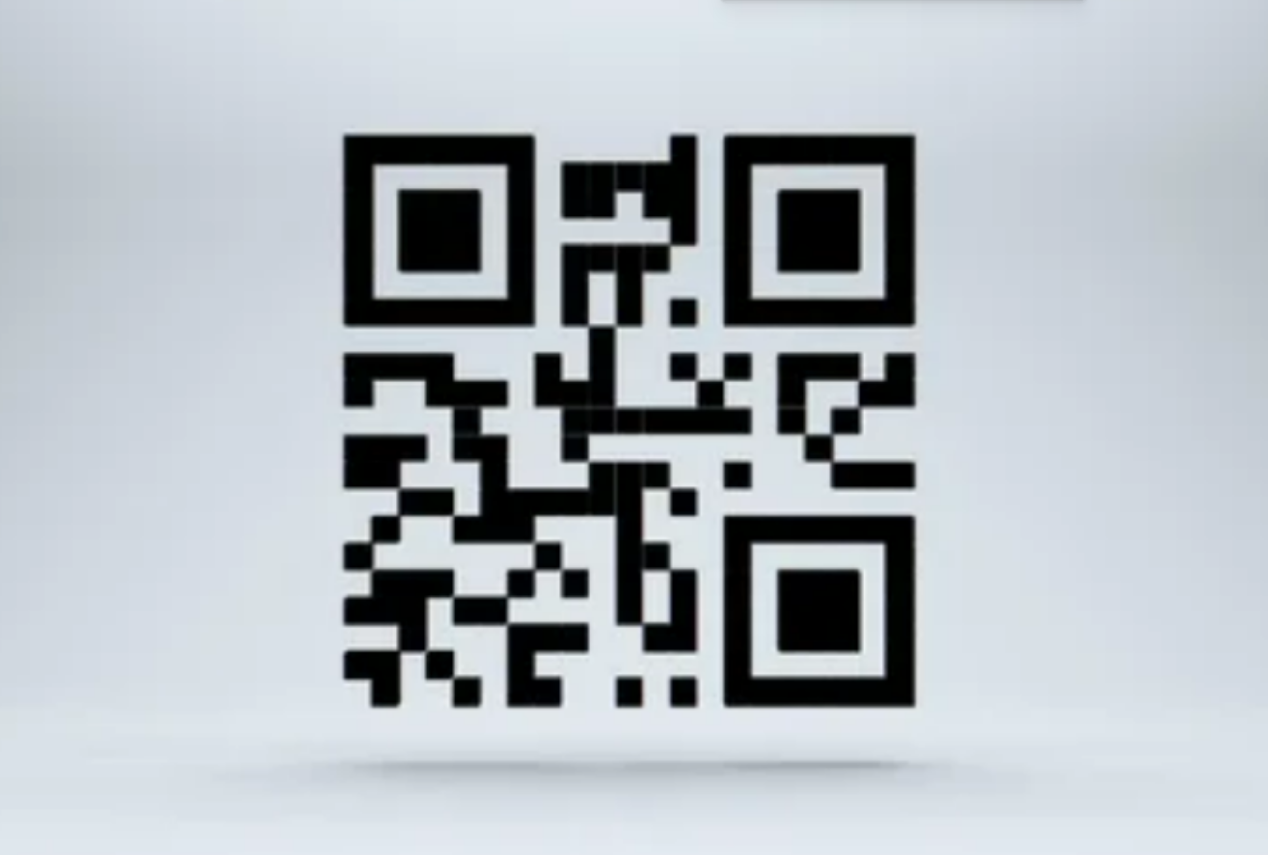
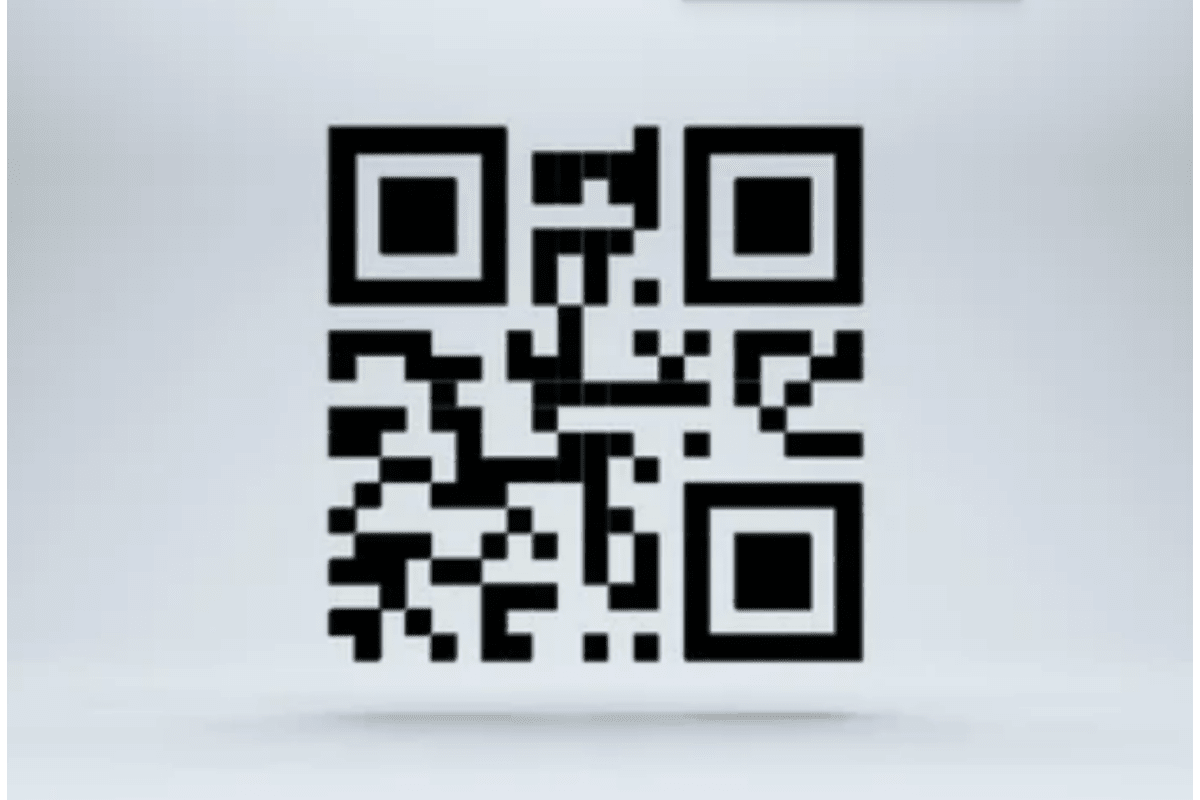
all images are localised

diff --git a/index.html b/index.html
@@ -10,7 +10,7 @@
   <!--
     - favicon
   -->
-  <link rel="shortcut icon" href="./assets/images/logo.ico" type="image/x-icon">
+  <link rel="shortcut icon" href="./assets/images/logo.png" type="image/x-icon">
 
   <!--
     - custom css link
@@ -41,7 +41,7 @@
       <div class="sidebar-info">
 
         <figure class="avatar-box">
-          <img src="./assets/images/profile-pic.png" alt="Sayan Ghosh" width="80" style="
+          <img src="./assets/images/avatar/avatar.png" alt="Sayan Ghosh" width="80" style="
     padding-bottom: 3px;
     padding-right: 13px;
     padding-left: 5px;
@@ -238,7 +238,7 @@
             <li class="service-item">
 
               <div class="service-icon-box">
-                <img src="assets\images\machine-learning-symbol-artificial-intelligence-mathematical-optimization-algorithm-automated-machine-learning-deep-learning-electric-blue-emblem-png-clipart-removebg-preview.png"
+                <img src="assets\images\about-images\ml.png"
                      alt="Machine Learning" width="80" height="80">
               </div>
             
@@ -256,7 +256,7 @@
             <li class="service-item">
 
               <div class="service-icon-box">
-                <img src="assets\images\computer-vision-1524279-1290826-removebg-preview.png" alt="Computer Vision" width="80" height="80">
+                <img src="assets\images\about-images\cv.png" alt="Computer Vision" width="80" height="80">
               </div>
 
               <div class="service-content-box">
@@ -273,7 +273,7 @@
             <li class="service-item">
 
               <div class="service-icon-box">
-                <img src="assets\images\156-1568541_natural-language-processing-and-deep-learning-powered-icon-removebg-preview.png"
+                <img src="assets\images\about-images\nlp.png"
                 alt="Machine Learning" width="100" height="80">  
               </div>
 
@@ -291,7 +291,7 @@
             <li class="service-item">
 
               <div class="service-icon-box">
-                <img src="./assets/images/2471868-removebg-preview.png" alt="Data Analysis and Visualization" width="80" height="80">
+                <img src="assets\images\about-images\da.png" alt="Data Analysis and Visualization" width="80" height="80">
               </div>
 
               <div class="service-content-box">
@@ -445,7 +445,7 @@
 
             <!-- Scikit-learn -->
             <li class="service-item" style="display: flex;align-items: center;padding-top: 0px;padding-bottom: 0px;padding-left: 30px;">
-              <img src="https://seeklogo.com/images/S/scikit-learn-logo-8766D07E2E-seeklogo.com.png" alt="" width="80">
+              <img src="assets\images\resume-images\Frameworks\scikit.png" alt="" width="80">
               <div class="service-content-box" style="
     padding-top: 7px;
 ">
@@ -456,7 +456,7 @@
 
             <!-- Numpy -->
             <li class="service-item" style="display: flex;align-items: center;padding-top: 0px;padding-bottom: 0px;padding-left: 30px;">
-              <img src="https://seeklogo.com/images/N/numpy-logo-479C24EC79-seeklogo.com.png" alt="" width="80">
+              <img src="assets\images\resume-images\Frameworks\numpy.png" alt="" width="80">
               <div class="service-content-box" style="
     padding-top: 7px;
 ">
@@ -467,7 +467,7 @@
 
             <!-- Pandas -->
             <li class="service-item" style="display: flex;align-items: center;padding-top: 0px;padding-bottom: 0px;padding-left: 30px;">
-              <img src="https://seeklogo.com/images/P/pandas-icon-logo-BE10401BF1-seeklogo.com.png" alt="" width="80">
+              <img src="assets\images\resume-images\Frameworks\pandas.png" alt="" width="60">
               <div class="service-content-box" style="
     padding-top: 7px;
 ">
@@ -478,7 +478,7 @@
 
             <!-- Matplotlib -->
             <li class="service-item" style="display: flex;align-items: center;padding-top: 0px;padding-bottom: 0px;padding-left: 30px;">
-              <img src="https://seeklogo.com/images/M/matplotlib-logo-7676870AC0-seeklogo.com.png" alt="" width="80">
+              <img src="assets\images\resume-images\Frameworks\mpl.png" alt="" width="80">
               <div class="service-content-box" style="
     padding-top: 7px;
 ">
@@ -489,7 +489,7 @@
 
             <!-- Pytorch -->
             <li class="service-item" style="display: flex;align-items: center;padding-top: 0px;padding-bottom: 0px;padding-left: 30px;">
-              <img src="https://seeklogo.com/images/P/pytorch-logo-84F95D0AF5-seeklogo.com.png" alt="" width="80">
+              <img src="assets\images\resume-images\Frameworks\pytorch.png" alt="" width="80">
               <div class="service-content-box" style="
     padding-top: 7px;
 ">
@@ -500,7 +500,7 @@
 
             <!-- YOLO -->
             <li class="service-item" style="display: flex;align-items: center;padding-top: 0px;padding-bottom: 0px;padding-left: 30px;">
-              <img src="assets\images\256x256bb-removebg-preview.png" alt="" width="80">
+              <img src="assets\images\resume-images\Frameworks\yolo.png" alt="" width="80">
               <div class="service-content-box" style="
     padding-top: 7px;
 ">
@@ -511,7 +511,7 @@
 
             <!-- Tensorflow -->
             <li class="service-item" style="display: flex;align-items: center;padding-top: 0px;padding-bottom: 0px;padding-left: 30px;">
-              <img src="https://seeklogo.com/images/T/tensorflow-logo-C69AEAC9D0-seeklogo.com.png" alt="" width="80">
+              <img src="assets\images\resume-images\Frameworks\tf.png" alt="" width="80">
               <div class="service-content-box" style="
     padding-top: 7px;
 ">
@@ -522,7 +522,7 @@
 
             <!-- Keras -->
             <li class="service-item" style="display: flex;align-items: center;padding-top: 0px;padding-bottom: 0px;padding-left: 30px;">
-              <img src="https://seeklogo.com/images/K/keras-logo-6B06C2FC2D-seeklogo.com.png" alt="" width="80">
+              <img src="assets\images\resume-images\Frameworks\keras.png" alt="" width="80">
               <div class="service-content-box" style="
     padding-top: 7px;
 ">
@@ -533,7 +533,7 @@
 
             <!-- Streamlit -->
             <li class="service-item" style="display: flex;align-items: center;padding-top: 0px;padding-bottom: 0px;padding-left: 30px;">
-              <img src="https://seeklogo.com/images/S/streamlit-logo-1A3B208AE4-seeklogo.com.png" alt="" width="80">
+              <img src="assets\images\resume-images\Frameworks\streamlit.png" alt="" width="80">
               <div class="service-content-box" style="
     padding-top: 7px;
 ">
@@ -544,7 +544,7 @@
 
             <!-- Flask -->
             <li class="service-item" style="display: flex;align-items: center;padding-top: 0px;padding-bottom: 0px;padding-left: 30px;">
-              <img src="assets\images\flask-by-example-python-web-framework-bottle-bottle-removebg-preview.png" alt="" width="80">
+              <img src="assets\images\resume-images\Frameworks\flask.png" alt="" width="80">
               <div class="service-content-box" style="
     padding-top: 7px;
 ">
@@ -555,7 +555,7 @@
 
             <!-- EasyOCR -->
             <li class="service-item" style="display: flex;align-items: center;padding-top: 0px;padding-bottom: 0px;padding-left: 30px;">
-              <img src="assets\images\images-removebg-preview.png" alt="" width="80">
+              <img src="assets\images\resume-images\Frameworks\ocr.png" alt="" width="80">
               <div class="service-content-box" style="
     padding-top: 7px;
 ">
@@ -566,7 +566,7 @@
 
             <!-- OpenCV -->
             <li class="service-item" style="display: flex;align-items: center;padding-top: 0px;padding-bottom: 0px;padding-left: 30px;">
-              <img src="assets\images\OpenCV_logo-removebg-preview.png" alt="" width="80">
+              <img src="assets\images\resume-images\Frameworks\ocv.png" alt="" width="80">
               <div class="service-content-box" style="
     padding-top: 7px;
 ">
@@ -577,7 +577,7 @@
 
             <!-- FastAPI -->
             <li class="service-item" style="display: flex;align-items: center;padding-top: 0px;padding-bottom: 0px;padding-left: 30px;">
-              <img src="https://seeklogo.com/images/F/fastapi-logo-541BAA112F-seeklogo.com.png" alt="" width="80">
+              <img src="assets\images\resume-images\Frameworks\fastapi.png" alt="" width="80">
               <div class="service-content-box" style="
     padding-top: 7px;
 ">
@@ -599,7 +599,7 @@
             
             <!-- PyCharm -->
             <li class="service-item" style="display: flex;align-items: center;padding-top: 0px;padding-bottom: 0px;padding-left: 30px;">
-              <img src="https://img.icons8.com/?size=100&id=vinpBD5oA3b4&format=png&color=000000" alt="" width="80">
+              <img src="assets\images\resume-images\Developer-tools\py.png" alt="" width="80">
               <div class="service-content-box" style="padding-top: 7px;">
                 <h4 class="h4 service-item-title" style="font-size: 18px;">PyCharm</h4>
               </div>
@@ -608,7 +608,7 @@
 
             <!-- Intellij IDEA -->
             <li class="service-item" style="display: flex;align-items: center;padding-top: 0px;padding-bottom: 0px;padding-left: 30px;">
-              <img src="https://img.icons8.com/?size=100&id=w1Gq29w4RQWL&format=png&color=000000" alt="" width="80">
+              <img src="assets\images\resume-images\Developer-tools\ii.png" alt="" width="80">
               <div class="service-content-box" style="padding-top: 7px;">
                 <h4 class="h4 service-item-title" style="font-size: 18px;">Intellij IDEA</h4>
               </div>
@@ -617,7 +617,7 @@
 
             <!-- VS Code -->
             <li class="service-item" style="display: flex;align-items: center;padding-top: 0px;padding-bottom: 0px;padding-left: 30px;">
-              <img src="https://img.icons8.com/?size=100&id=9OGIyU8hrxW5&format=png&color=000000" alt="" width="80">
+              <img src="assets\images\resume-images\Developer-tools\vs.png" alt="" width="80">
               <div class="service-content-box" style="
     padding-top: 7px;
 ">
@@ -628,7 +628,7 @@
 
             <!-- Git -->
             <li class="service-item" style="display: flex;align-items: center;padding-top: 0px;padding-bottom: 0px;padding-left: 30px;">
-              <img src="https://img.icons8.com/?size=100&id=20906&format=png&color=000000" alt="" width="80">
+              <img src="assets\images\resume-images\Developer-tools\g.png" alt="" width="80">
               <div class="service-content-box" style="
     padding-top: 7px;
 ">
@@ -641,7 +641,7 @@
             <li class="service-item" style="display: flex;align-items: center;padding-top: 0px;padding-bottom: 0px;padding-left: 30px;">
         
               <div class="service-icon-box">
-                <img src="https://seeklogo.com/images/D/dataspell-logo-06435B9CF3-seeklogo.com.png" alt="" width="80">
+                <img src="assets\images\resume-images\Developer-tools\ds.png" alt="" width="80">
               </div>
         
               <div class="service-content-box" style="
@@ -654,7 +654,7 @@
 
             <!-- Code::Blocks -->
             <li class="service-item" style="display: flex;align-items: center;padding-top: 0px;padding-bottom: 0px;padding-left: 30px;">
-              <img src="https://img.icons8.com/?size=100&id=8BWvlqRi2nsz&format=png&color=000000" alt="" width="80">
+              <img src="assets\images\resume-images\Developer-tools\cb.png" alt="" width="80">
               
               <div class="service-content-box" style="
     padding-top: 7px;
@@ -666,7 +666,7 @@
 
             <!-- Jupyter Notebook -->
             <li class="service-item" style="display: flex;align-items: center;padding-top: 0px;padding-bottom: 0px;padding-left: 30px;">
-              <img src="https://img.icons8.com/?size=100&id=J0SgMWzAxqFj&format=png&color=000000" alt="" width="80">
+              <img src="assets\images\resume-images\Developer-tools\jn.png" alt="" width="80">
               <div class="service-content-box" style="
     padding-top: 7px;
 ">
@@ -679,7 +679,7 @@
             <li class="service-item" style="display: flex;align-items: center;padding-top: 0px;padding-bottom: 0px;padding-left: 30px;">
         
               <div class="service-icon-box">
-                <img src="https://img.icons8.com/?size=100&id=EPbEfEa7o8CB&format=png&color=000000" alt="" width="80">
+                <img src="assets\images\resume-images\Developer-tools\p.png" alt="" width="80">
               </div>
         
               <div class="service-content-box" style="
@@ -694,7 +694,7 @@
             <li class="service-item" style="display: flex;align-items: center;padding-top: 0px;padding-bottom: 0px;padding-left: 30px;">
         
               <div class="service-icon-box">
-                <img src="https://img.icons8.com/?size=100&id=HF4xGsjDERHf&format=png&color=000000" alt="" width="80">
+                <img src="assets\images\resume-images\Developer-tools\linux.png" alt="" width="80">
               </div>
         
               <div class="service-content-box" style="
@@ -718,10 +718,6 @@
         </a>
 
       </article>
-
-
-
-
 
       <!--
         - #PORTFOLIO
@@ -757,7 +753,7 @@
                     <ion-icon name="eye-outline"></ion-icon>
                   </div>
 
-                  <img src="https://f5b623aa.rocketcdn.me/wp-content/uploads/2022/08/Blog_Automatic-Number-Plate-Recognition-ANPR.jpg.webp" alt="CarTagDetect" loading="lazy">
+                  <img src="assets\images\portfolio\CTD.png" alt="CarTagDetect" loading="lazy">
                 </figure>
 
                 <h3 class="project-title">CarTagDetect</h3>
@@ -771,7 +767,7 @@
                     <ion-icon name="eye-outline"></ion-icon>
                   </div>
 
-                  <img src="https://blog.finbrain.tech/wp-content/uploads/2023/05/AMZN-stock-forecast-accuracy-banner-with-logo.jpg" alt="StockSeer" loading="lazy">
+                  <img src="assets\images\portfolio\SS.png" alt="StockSeer" loading="lazy">
                 </figure>
 
                 <h3 class="project-title">StockSeer</h3>
@@ -785,7 +781,7 @@
                     <ion-icon name="eye-outline"></ion-icon>
                   </div>
 
-                  <img src="https://www.inventiva.co.in/wp-content/uploads/2023/03/tumblr_nsgqgiSSXw1t7cmmpo1_1280-780x470.png" alt="FilmFinder" loading="lazy">
+                  <img src="assets\images\portfolio\FF.png" alt="FilmFinder" loading="lazy">
                 </figure>
 
                 <h3 class="project-title">FilmFinder</h3>
@@ -799,7 +795,7 @@
                     <ion-icon name="eye-outline"></ion-icon>
                   </div>
 
-                  <img src="assets\images\image.png" alt="QR Code Generator Browser Extension" loading="lazy">
+                  <img src="assets\images\portfolio\QRG.png" alt="QR Code Generator Browser Extension" loading="lazy">
                 </figure>
 
                 <h3 class="project-title">QR Code Generator Browser Extension</h3>
@@ -813,10 +809,10 @@
                     <ion-icon name="eye-outline"></ion-icon>
                   </div>
 
-                  <img src="https://miro.medium.com/v2/resize:fit:1100/format:webp/0*whWZiPnG0rXxels-.jpg" alt="Creating a Neural Network from scratch" loading="lazy">
+                  <img src="assets\images\portfolio\NNS.png" alt="Creating a Neural Network from scratch" loading="lazy">
                 </figure>
 
-                <h3 class="project-title">Creating a Neural Network from scratch</h3>
+                <h3 class="project-title">Neural Network from scratch</h3>
               </a>
             </li>
           </ul>
@@ -847,7 +843,7 @@
               <a href="https://www.coursera.org/account/accomplishments/specialization/44F6XBALN95N?utm_campaign=sharing_cta&utm_content=cert_image&utm_medium=certificate&utm_product=s12n&utm_source=link" target="_blank">
 
                 <figure class="certification-banner-box">
-                  <img src="https://s3.amazonaws.com/coursera_assets/meta_images/generated/CERTIFICATE_LANDING_PAGE/CERTIFICATE_LANDING_PAGE~44F6XBALN95N/CERTIFICATE_LANDING_PAGE~44F6XBALN95N.jpeg" alt="Advanced Data Science with IBM" loading="lazy">
+                  <img src="assets\images\certificate\c1.jpeg" alt="Advanced Data Science with IBM" loading="lazy">
                 </figure>
 
                 <div class="certification-content">
@@ -871,7 +867,7 @@
               <a href ="https://www.coursera.org/account/accomplishments/professional-cert/42GM2BBDPA9Q?utm_campaign=sharing_cta&utm_content=cert_image&utm_medium=certificate&utm_product=prof&utm_source=link" target="_blank">
 
                 <figure class="certification-banner-box">
-                  <img src="https://s3.amazonaws.com/coursera_assets/meta_images/generated/CERTIFICATE_LANDING_PAGE/CERTIFICATE_LANDING_PAGE~42GM2BBDPA9Q/CERTIFICATE_LANDING_PAGE~42GM2BBDPA9Q.jpeg" alt="Meta Data Analyst" loading="lazy">
+                  <img src="assets\images\certificate\c2.jpeg" alt="Meta Data Analyst" loading="lazy">
                 </figure>
 
                 <div class="certification-content">
@@ -895,7 +891,7 @@
               <a href="https://www.coursera.org/account/accomplishments/verify/STRBLBLL8RP4?utm_campaign=sharing_cta&utm_content=cert_image&utm_medium=certificate&utm_product=course&utm_source=link" target="_blank">
 
                 <figure class="certification-banner-box">
-                  <img src="https://s3.amazonaws.com/coursera_assets/meta_images/generated/CERTIFICATE_LANDING_PAGE/CERTIFICATE_LANDING_PAGE~STRBLBLL8RP4/CERTIFICATE_LANDING_PAGE~STRBLBLL8RP4.jpeg" alt="Applied AI with DeepLearning" loading="lazy">
+                  <img src="assets\images\certificate\c3.jpeg" alt="Applied AI with DeepLearning" loading="lazy">
                 </figure>
 
                 <div class="certification-content">
@@ -918,7 +914,7 @@
               <a href="https://www.coursera.org/account/accomplishments/professional-cert/ZK5G36S3VA25" target="_blank">
 
                 <figure class="certification-banner-box">
-                  <img src="https://s3.amazonaws.com/coursera_assets/meta_images/generated/CERTIFICATE_LANDING_PAGE/CERTIFICATE_LANDING_PAGE~ZK5G36S3VA25/CERTIFICATE_LANDING_PAGE~ZK5G36S3VA25.jpeg" alt="IBM Full Stack Software Developer" loading="lazy">
+                  <img src="assets\images\certificate\c4.jpeg" alt="IBM Full Stack Software Developer" loading="lazy">
                 </figure>
 
                 <div class="certification-content">
@@ -941,7 +937,7 @@
               <a href="https://www.coursera.org/account/accomplishments/specialization/S9WZY43FG3R7" target="_blank">
 
                 <figure class="certification-banner-box">
-                  <img src="https://s3.amazonaws.com/coursera_assets/meta_images/generated/CERTIFICATE_LANDING_PAGE/CERTIFICATE_LANDING_PAGE~S9WZY43FG3R7/CERTIFICATE_LANDING_PAGE~S9WZY43FG3R7.jpeg" alt="MLOps | Machine Learning Operations" loading="lazy">
+                  <img src="assets\images\certificate\c5.jpeg" alt="MLOps | Machine Learning Operations" loading="lazy">
                 </figure>
 
                 <div class="certification-content">
@@ -964,7 +960,7 @@
               <a href="https://www.coursera.org/account/accomplishments/verify/EN2D6CVAARH7?utm_campaign=sharing_cta&utm_content=cert_image&utm_medium=certificate&utm_product=course&utm_source=link" target="_blank">
 
                 <figure class="certification-banner-box">
-                  <img src="https://s3.amazonaws.com/coursera_assets/meta_images/generated/CERTIFICATE_LANDING_PAGE/CERTIFICATE_LANDING_PAGE~EN2D6CVAARH7/CERTIFICATE_LANDING_PAGE~EN2D6CVAARH7.jpeg" alt="Advanced ML and Signal Processing" loading="lazy">
+                  <img src="assets\images\certificate\c6.jpeg" alt="Advanced ML and Signal Processing" loading="lazy">
                 </figure>
 
                 <div class="certification-content">
